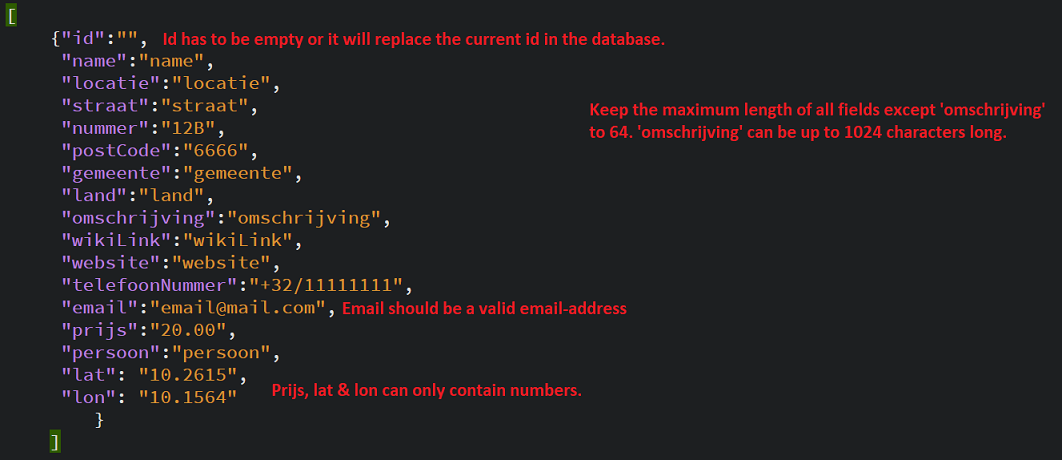
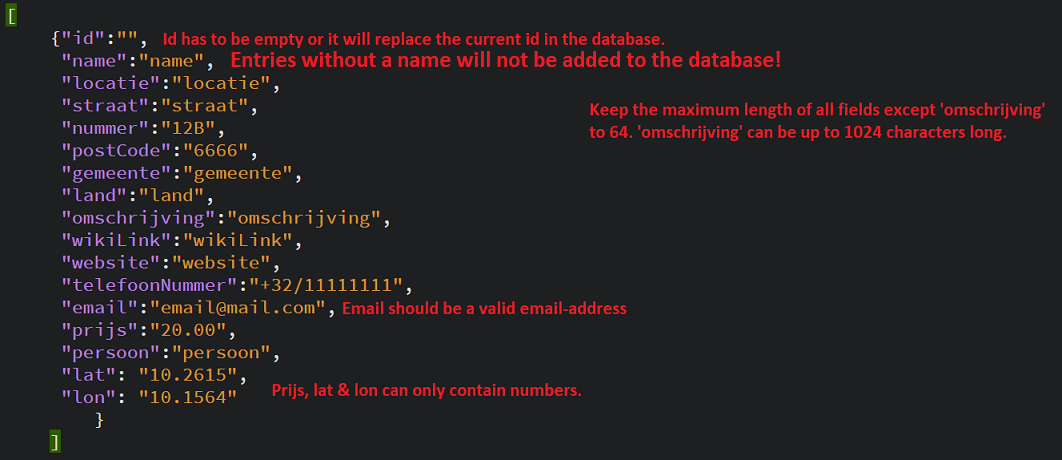
errors in frontend fixed, empty name not allowed in json added.

Changed region(s): [[0.2175, 0.1217, 0.7458, 0.1522]]

diff --git a/src/main/java/com/realdolmen/hbo5/wasdapp/wasdappcore/controllers/UploadController.java b/src/main/java/com/realdolmen/hbo5/wasdapp/wasdappcore/controllers/UploadController.java
@@ -50,9 +50,17 @@ public class UploadController {
         }
     }
     
+    @RequestMapping("/uploadError")
+    public String uploadError(Model model) {
+        String string = "Please upload a CSV or JSON file.";
+        model.addAttribute("string", string);
+        model.addAttribute(currentUser);
+        return "upload.xhtml";
+    }
+    
     @RequestMapping("/uploadErrorWrongJSON")
     public String uploadErrorWrongJSON(Model model) {
-        String image = "https://i.imgur.com/FVspaQl.png";
+        String image = "https://i.imgur.com/iKN0rGa.png";
         model.addAttribute("image", image);
         model.addAttribute(currentUser);
         return "upload.xhtml";
@@ -94,7 +102,6 @@ public class UploadController {
                 jsonParser.importJson(is);
                 return "redirect:/wasdapp";  
             }catch(Exception e){
-                e.printStackTrace();
             return "redirect:/uploadErrorWrongJSON";
             }
         }

diff --git a/src/main/java/com/realdolmen/hbo5/wasdapp/wasdappcore/service/impl/JsonParserImpl.java b/src/main/java/com/realdolmen/hbo5/wasdapp/wasdappcore/service/impl/JsonParserImpl.java
@@ -33,7 +33,14 @@ public class JsonParserImpl {
     public void importJson(InputStream is) throws IOException, WrongFileException{
         entries = readJson(is);
         if(entries != null){
-        wasdappService.save(entries);
+            for(WasdappEntry w : entries){
+                if(!w.getName().isEmpty()){
+                    wasdappService.save(w);
+                }else{
+                    errMsg ="Empty name found in file, this entry has not been added.";
+                    LOGGER.error(errMsg);
+                }
+            }
         }else{
             errMsg = "The list of entries to save is empty.";
             LOGGER.error(errMsg);

diff --git a/src/test/java/com/realdolmen/hbo5/wasdapp/wasdappcore/service/impl/JsonParserImplTest.java b/src/test/java/com/realdolmen/hbo5/wasdapp/wasdappcore/service/impl/JsonParserImplTest.java
@@ -33,5 +33,12 @@ public class JsonParserImplTest {
         List<WasdappEntry> entries = new ArrayList<>();
         entries = jsonParser.readJson(stream);
         assertEquals("name", entries.get(0).getName());
-    }  
+    }
+    
+    @Test
+     public void shouldNotReadJsonTest() throws FileNotFoundException, IOException{
+        File file = new File("src/main/resources/wrong.json");
+        InputStream stream = new FileInputStream(file);
+        assertNull(jsonParser.readJson(stream));
+    }
 }

diff --git a/src/main/java/com/realdolmen/hbo5/wasdapp/wasdappcore/domain/WasdappEntry.java b/src/main/java/com/realdolmen/hbo5/wasdapp/wasdappcore/domain/WasdappEntry.java
@@ -29,7 +29,7 @@ public class WasdappEntry implements Serializable {
     private String straat;
     @Column(length = 10)
     private String nummer;
-    @Column(length = 6)
+    @Column(length = 8)
     private String postCode;
     @Column(length = 64)
     private String gemeente;
